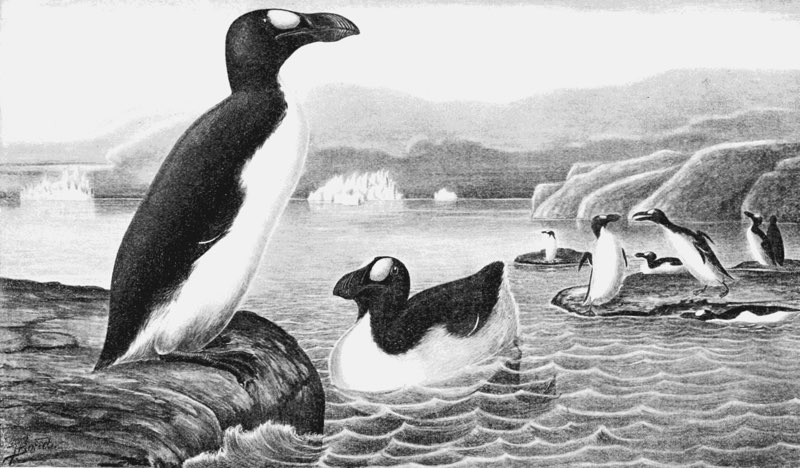
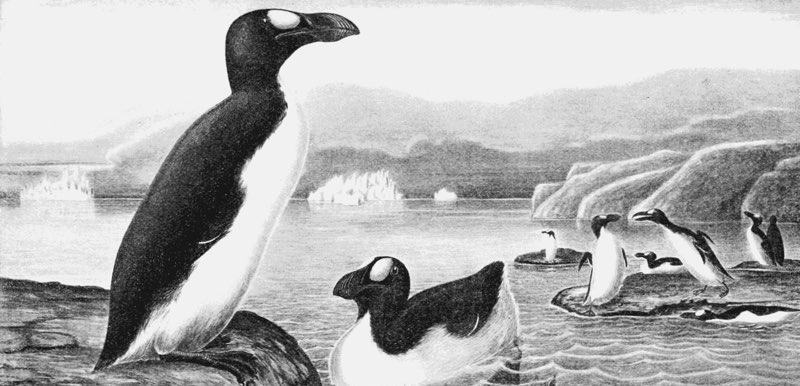
Hide content out of bounds

diff --git a/AukTests/AukPageTests.swift b/AukTests/AukPageTests.swift
@@ -47,6 +47,12 @@ class AukPageTests: XCTestCase {
     XCTAssertEqual(UIViewContentMode.TopRight.rawValue, view.imageView!.contentMode.rawValue)
   }
   
+  func testShowImage_hideContentOutOfBounds() {
+    let image = uiImageFromFile("67px.png")
+    view.show(image: image, settings: settings)
+    XCTAssert(view.clipsToBounds)
+  }
+  
   // MARK: - Show image by url
   
   func testShowUrl_useContentMode() {

diff --git a/Auk/AukPage.swift b/Auk/AukPage.swift
@@ -73,6 +73,8 @@ final class AukPage: UIView {
   func createAndLayoutImageView(settings: AukSettings) {
     if imageView != nil { return }
     
+    clipsToBounds = true // Hide image if it is out of page bounds
+    
     let newImageView = AukPage.createImageView(settings)
     addSubview(newImageView)
     imageView = newImageView
